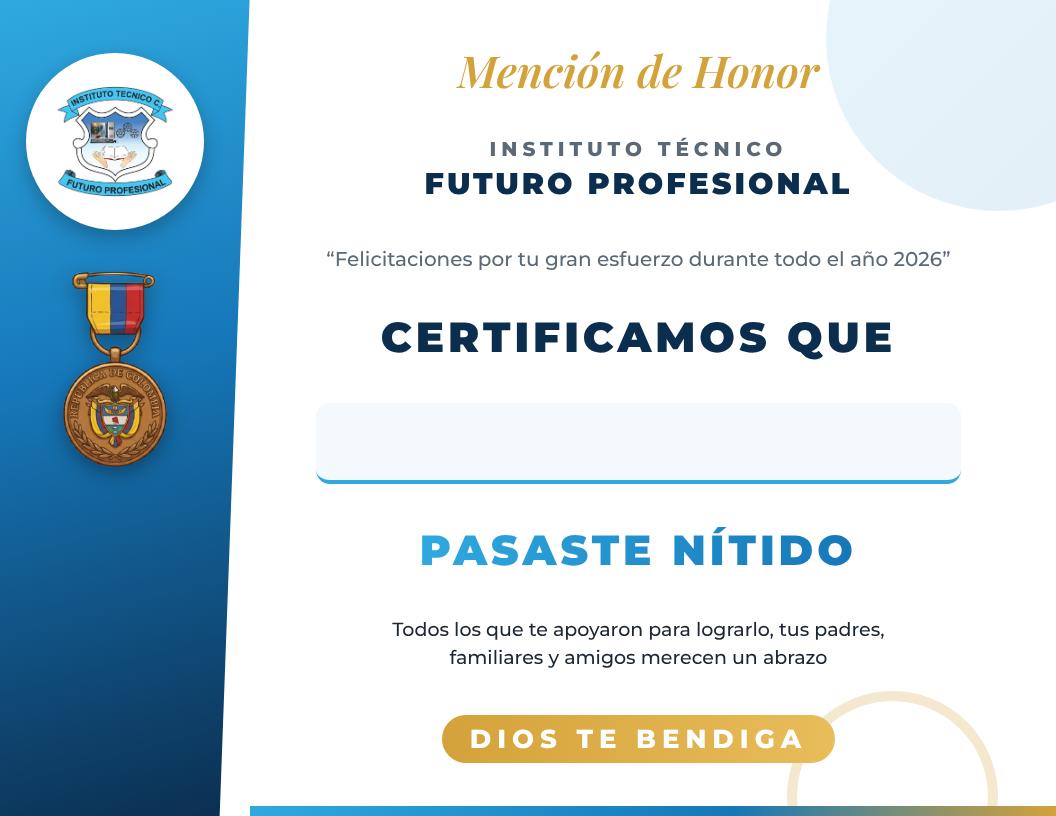
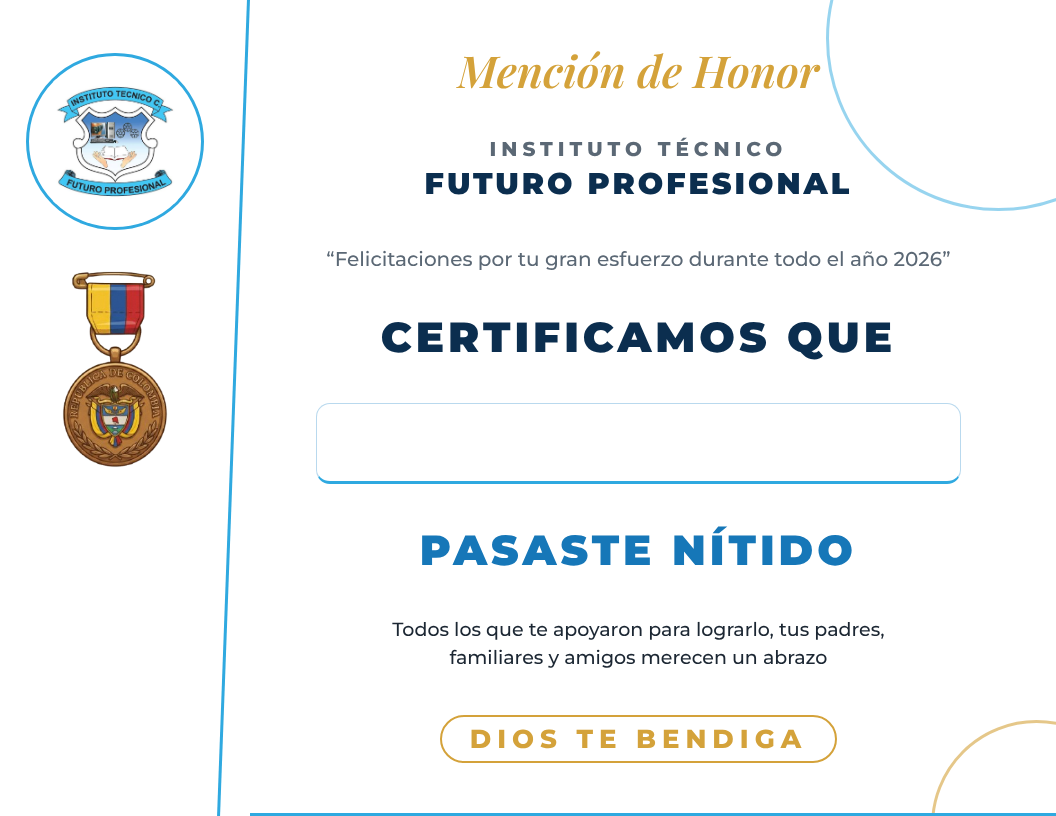
Versión moderna ahorradora de tinta
Se quitan fondos de color, degradados y sombras: solo líneas finas,
contornos y textos de color sobre fondo blanco.

Claude-Session: https://claude.ai/code/session_01BChD1Ut41wBkBYEeCcQyt1

diff --git a/moderno.css b/moderno.css
@@ -51,40 +51,51 @@ body {
   width: 3.6in;
   height: 3.6in;
   border-radius: 50%;
-  background: linear-gradient(135deg, var(--azul) 0%, var(--azul-medio) 100%);
-  opacity: 0.12;
+  border: 3px solid var(--azul);
+  opacity: 0.5;
 }
 
 /* Anillo dorado */
 .forma-2 {
-  bottom: -0.9in;
-  right: 0.6in;
+  bottom: -1.2in;
+  right: -0.9in;
   width: 2.2in;
   height: 2.2in;
   border-radius: 50%;
-  border: 10px solid var(--dorado);
-  opacity: 0.25;
+  border: 3px solid var(--dorado);
+  opacity: 0.6;
 }
 
 /* Línea de acento inferior */
 .forma-3 {
-  left: 2.6in;
+  left: 2.29in;
   right: 0;
   bottom: 0;
-  height: 10px;
-  background: linear-gradient(90deg, var(--azul) 0%, var(--azul-medio) 60%, var(--dorado) 100%);
+  height: 3px;
+  background: var(--azul);
 }
 
 /* ===== Panel izquierdo ===== */
 .panel {
   position: relative;
-  background: linear-gradient(165deg, var(--azul) 0%, var(--azul-medio) 45%, var(--azul-oscuro) 100%);
+  background: #ffffff;
   display: flex;
   flex-direction: column;
   align-items: center;
   padding-top: 0.55in;
   gap: 0.4in;
-  clip-path: polygon(0 0, 100% 0, 88% 100%, 0 100%);
+}
+
+/* Línea diagonal fina que separa el panel */
+.panel::after {
+  content: "";
+  position: absolute;
+  top: -0.2in;
+  right: 0.156in;
+  width: 3px;
+  height: 8.9in;
+  background: var(--azul);
+  transform: rotate(2.1deg);
 }
 
 .tarjeta-escudo {
@@ -96,7 +107,7 @@ body {
   display: flex;
   align-items: center;
   justify-content: center;
-  box-shadow: 0 8px 20px rgba(0, 0, 0, 0.25);
+  border: 3px solid var(--azul);
   margin-right: 0.2in;
 }
 
@@ -109,7 +120,6 @@ body {
   height: 2.1in;
   width: auto;
   margin-right: 0.2in;
-  filter: drop-shadow(0 6px 10px rgba(0, 0, 0, 0.35));
 }
 
 /* ===== Contenido ===== */
@@ -164,19 +174,17 @@ body {
 }
 
 .titulo-grande.destacado {
-  background: linear-gradient(90deg, var(--azul) 0%, var(--azul-medio) 100%);
-  -webkit-background-clip: text;
-  background-clip: text;
-  color: transparent;
+  color: var(--azul-medio);
 }
 
 /* Espacio para escribir el nombre con lapicero */
 .espacio-nombre {
   width: 92%;
   height: 0.85in;
-  background: #f4f9fd;
+  background: #ffffff;
+  border: 1.5px solid #b9d9ee;
+  border-bottom: 3px solid var(--azul);
   border-radius: 14px;
-  border-bottom: 4px solid var(--azul);
 }
 
 .mensaje {
@@ -192,9 +200,9 @@ body {
   font-weight: 800;
   font-size: 26px;
   letter-spacing: 6px;
-  color: #ffffff;
-  background: linear-gradient(90deg, var(--dorado) 0%, #e8bd5a 100%);
-  padding: 8px 28px;
+  color: var(--dorado);
+  border: 2.5px solid var(--dorado);
+  padding: 6px 28px;
   border-radius: 999px;
 }
 
